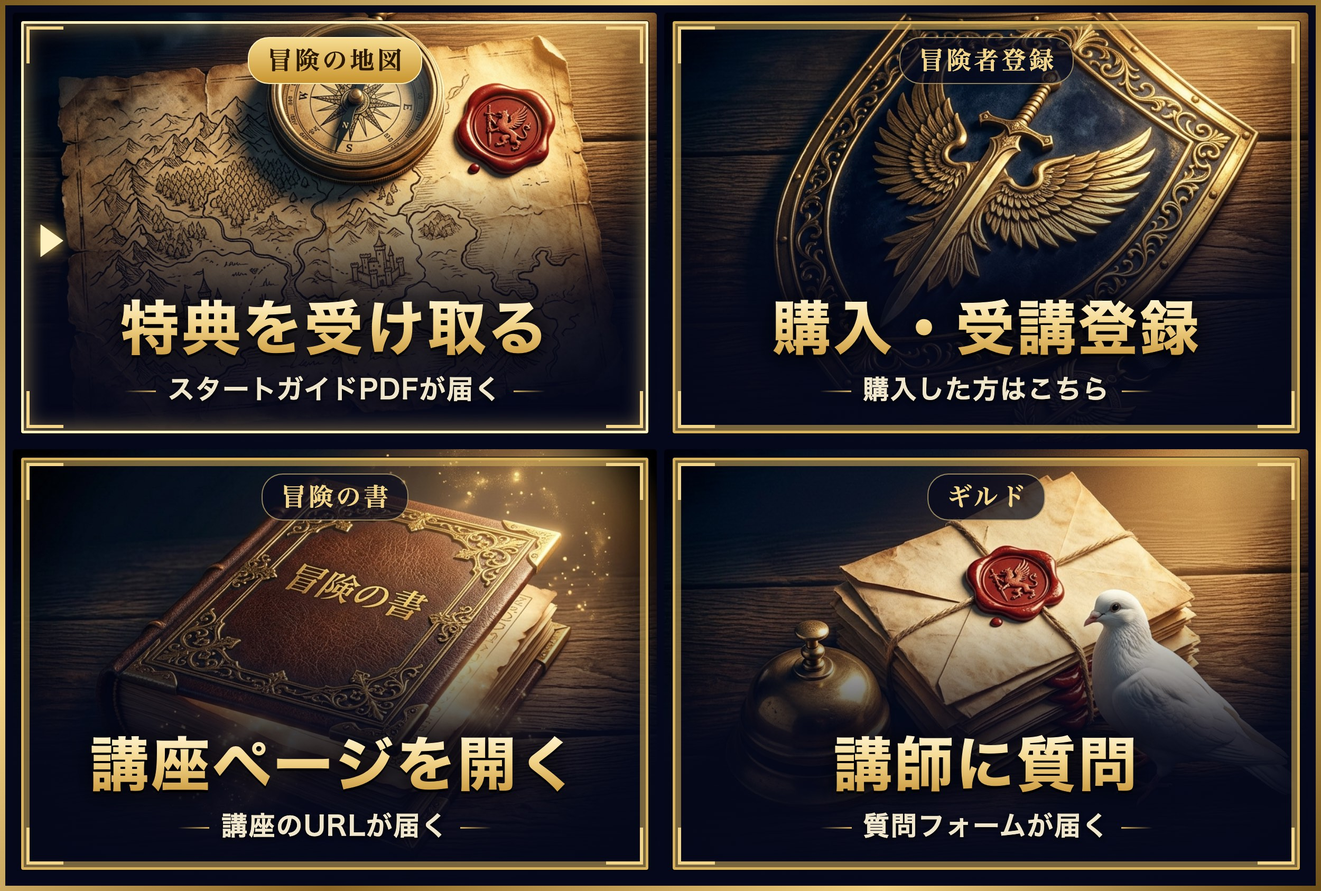
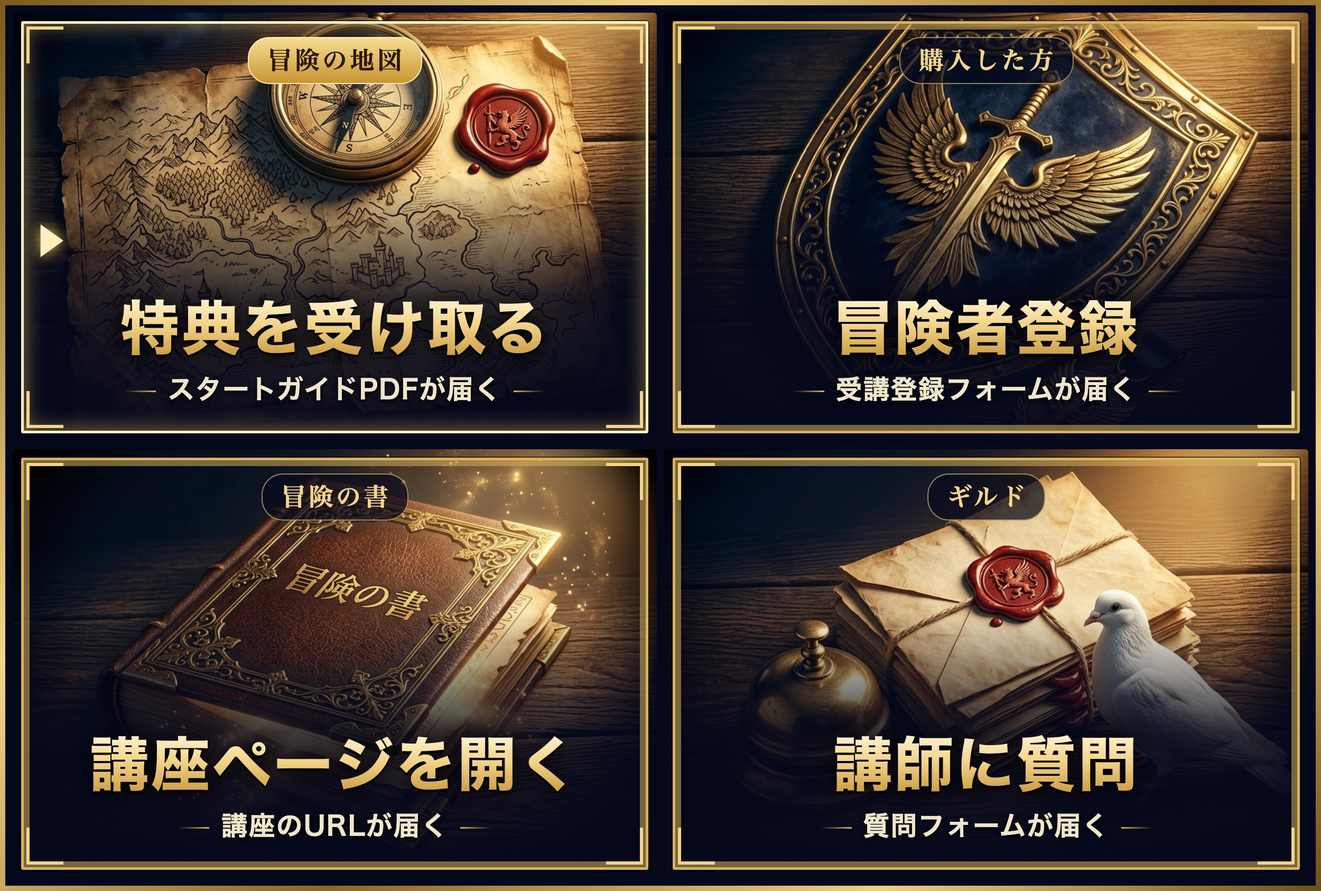
fix: リッチメニュー右上の表記を「冒険者登録」に戻す（札は「購入した方」）

Changed region(s): [[0.5616, 0.3393, 0.9048, 0.4626], [0.6864, 0.0308, 0.8112, 0.0925]]

diff --git a/lstep-clone/funnels/claude-code-course/assets/richmenu-normal.html b/lstep-clone/funnels/claude-code-course/assets/richmenu-normal.html
@@ -12,7 +12,7 @@
 <div class="tag jp">冒険の地図</div><div class="txt"><div class="t">特典を受け取る</div><div class="s">スタートガイドPDFが届く</div></div></div>
 <div class="c" style="background-image:url(richmenu-art/entry.png);background-position:center 30%;background-size:cover">
 <i class="corner tl"></i><i class="corner tr"></i><i class="corner bl"></i><i class="corner br"></i>
-<div class="tag jp">冒険者登録</div><div class="txt"><div class="t">購入・受講登録</div><div class="s">購入した方はこちら</div></div></div>
+<div class="tag jp">購入した方</div><div class="txt"><div class="t">冒険者登録</div><div class="s">受講登録フォームが届く</div></div></div>
 <div class="c" style="background-image:url(richmenu-art/book.png);background-position:center 30%;background-size:cover">
 <i class="corner tl"></i><i class="corner tr"></i><i class="corner bl"></i><i class="corner br"></i>
 <div class="tag jp">冒険の書</div><div class="txt"><div class="t">講座ページを開く</div><div class="s">講座のURLが届く</div></div></div>

diff --git a/lstep-clone/funnels/claude-code-course/README.md b/lstep-clone/funnels/claude-code-course/README.md
@@ -106,7 +106,7 @@ node scripts/seed-funnel.mjs funnels/claude-code-course/funnel.mjs --replace
 | 位置 | 表示（大きく／札） | 動作 |
 |---|---|---|
 | 左上 | 特典を受け取る／冒険の地図 | テキスト送信「特典」 |
-| 右上 | 購入・受講登録／冒険者登録 | テキスト送信「購入しました」 |
+| 右上 | 冒険者登録／購入した方 | テキスト送信「購入しました」（受講登録フォームが届く） |
 | 左下 | 講座ページを開く／冒険の書 | テキスト送信「講座」（返信の1行目に講座URL） |
 | 右下 | 講師に質問／ギルド | フォーム案内（講師への質問フォーム） |
 
